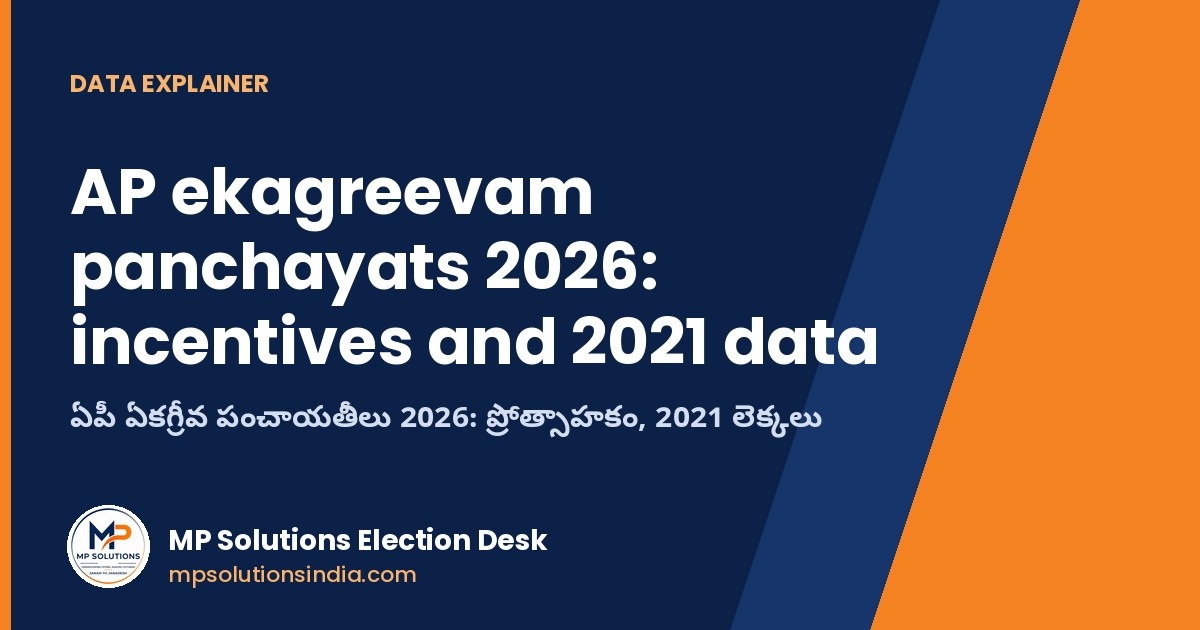
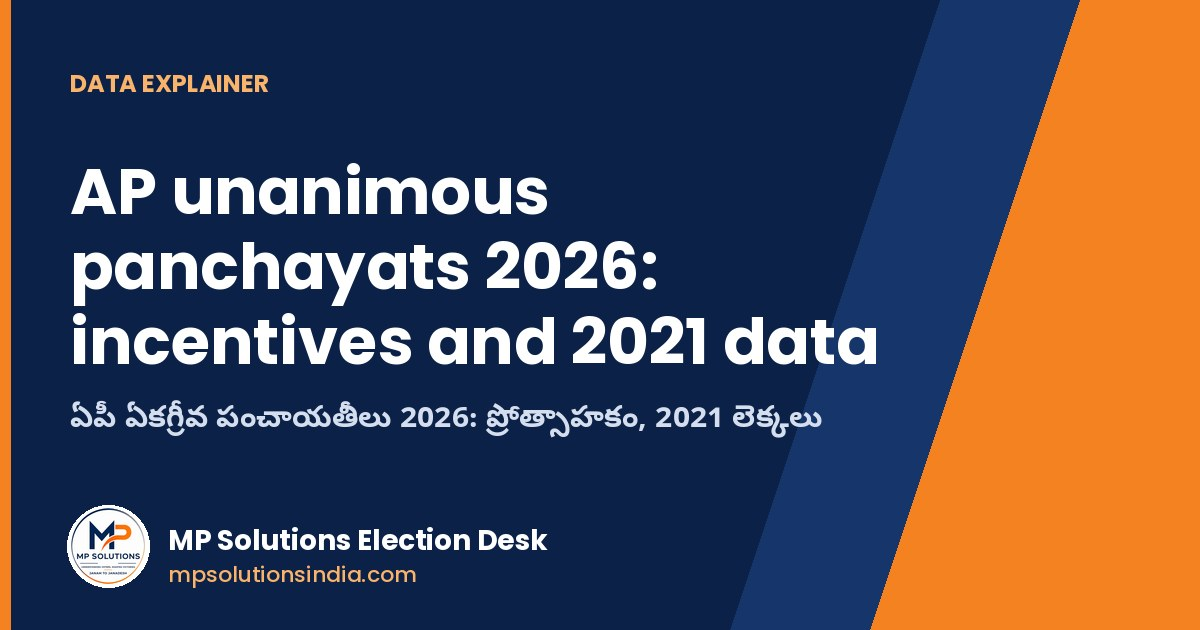
Retitle unanimous panchayats article in plain English
Claude-Session: https://claude.ai/code/session_01J2PUJxykP42pngbhocm33P

Changed region(s): [[0.1542, 0.2413, 0.4933, 0.3921]]

diff --git a/articles/ap-ekagreevam-unanimous-panchayats-2026-incentives-15-25-50-lakh-data.html b/articles/ap-ekagreevam-unanimous-panchayats-2026-incentives-15-25-50-lakh-data.html
@@ -7,25 +7,25 @@
 <script>/* contact-tracking */document.addEventListener('click',function(e){var a=e.target.closest?e.target.closest('a'):null;if(!a||typeof gtag!=='function')return;var h=a.getAttribute('href')||'';var n=h.indexOf('mailto:')===0?'contact_email_click':h.indexOf('instagram.com')>-1?'instagram_click':h.indexOf('/contact.html')>-1?'contact_link_click':'';if(n)gtag('event',n,{page_path:location.pathname})});if(location.pathname.indexOf('/contact')===0&&typeof gtag==='function')gtag('event','contact_page_view',{page_path:location.pathname});</script>
 <meta charset="utf-8">
 <meta name="viewport" content="width=device-width, initial-scale=1">
-<title>AP Ekagreevam Panchayats 2026: Unanimous Election Incentives and 2021 Data | ఏకగ్రీవ పంచాయతీలు</title>
+<title>AP Unanimous Panchayats 2026: Up to Rs 50 Lakh for Unopposed Sarpanch | ఏకగ్రీవ పంచాయతీలు</title>
 <meta name="description" content="Andhra Pradesh offers Rs 15 lakh, Rs 25 lakh or Rs 50 lakh to panchayats that elect the sarpanch and all ward members unopposed. What the rules say, what 2021 looked like, and what the 2026 count could be.">
 <link rel="canonical" href="https://mpsolutionsindia.com/articles/ap-ekagreevam-unanimous-panchayats-2026-incentives-15-25-50-lakh-data.html">
-<meta property="og:title" content="AP Ekagreevam Panchayats 2026: Unanimous Election Incentives and 2021 Data | ఏకగ్రీవ పంచాయతీలు">
+<meta property="og:title" content="AP Unanimous Panchayats 2026: Up to Rs 50 Lakh for Unopposed Sarpanch | ఏకగ్రీవ పంచాయతీలు">
 <meta property="og:description" content="Andhra Pradesh offers Rs 15 lakh, Rs 25 lakh or Rs 50 lakh to panchayats that elect the sarpanch and all ward members unopposed. What the rules say, what 2021 looked like, and what the 2026 count could be.">
 <meta property="og:type" content="website">
 <meta property="og:url" content="https://mpsolutionsindia.com/articles/ap-ekagreevam-unanimous-panchayats-2026-incentives-15-25-50-lakh-data.html">
 <meta property="og:image" content="https://mpsolutionsindia.com/articles/img/og-ap-ekagreevam-unanimous-panchayats-2026-incentives-15-25-50-lakh-data.jpg">
 <meta property="og:site_name" content="MP Solutions">
 <meta name="twitter:card" content="summary_large_image">
-<meta name="keywords" content="ekagreevam panchayat AP 2026, unanimous sarpanch Andhra Pradesh, ekagreevam incentive 50 lakh, ఏకగ్రీవ పంచాయతీ, ఏకగ్రీవ సర్పంచ్ ప్రోత్సాహకం">
+<meta name="keywords" content="unanimous panchayat AP 2026, unopposed sarpanch Andhra Pradesh, unanimous election incentive 50 lakh, ekagreevam, ఏకగ్రీవ పంచాయతీ, ఏకగ్రీవ సర్పంచ్ ప్రోత్సాహకం">
 <meta name="theme-color" content="#0B2147">
 <link rel="icon" href="/mp-logo.png" type="image/png">
 <link rel="apple-touch-icon" href="/mp-logo.png">
 <link rel="preconnect" href="https://fonts.googleapis.com">
 <link rel="preconnect" href="https://fonts.gstatic.com" crossorigin>
 <link href="https://fonts.googleapis.com/css2?family=Archivo:wght@600;700;800&family=Noto+Sans+Telugu:wght@400;600;700&family=Public+Sans:wght@400;500;600&display=swap" rel="stylesheet">
-<script type="application/ld+json">{"@context": "https://schema.org", "@type": "NewsArticle", "headline": "AP ekagreevam panchayats 2026: Rs 15, 25 and 50 lakh incentives and what 2021 data says", "alternativeHeadline": "ఏపీ ఏకగ్రీవ పంచాయతీలు 2026: రూ.15, 25, 50 లక్షల ప్రోత్సాహకం", "description": "Andhra Pradesh offers Rs 15 lakh, Rs 25 lakh or Rs 50 lakh to panchayats that elect the sarpanch and all ward members unopposed. What the rules say, what 2021 looked like, and what the 2026 count could be.", "datePublished": "2026-11-19T06:30:00+05:30", "dateModified": "2026-11-19T06:30:00+05:30", "mainEntityOfPage": "https://mpsolutionsindia.com/articles/ap-ekagreevam-unanimous-panchayats-2026-incentives-15-25-50-lakh-data.html", "url": "https://mpsolutionsindia.com/articles/ap-ekagreevam-unanimous-panchayats-2026-incentives-15-25-50-lakh-data.html", "image": ["https://mpsolutionsindia.com/articles/img/og-ap-ekagreevam-unanimous-panchayats-2026-incentives-15-25-50-lakh-data.jpg"], "inLanguage": ["en-IN", "te"], "author": {"@type": "Organization", "name": "MP Solutions Election Desk", "url": "https://mpsolutionsindia.com/about.html#election-desk"}, "publisher": {"@type": "Organization", "name": "MP Solutions", "logo": {"@type": "ImageObject", "url": "https://mpsolutionsindia.com/mp-logo.png"}}, "about": ["Unanimous panchayat election", "Andhra Pradesh gram panchayat elections 2026"]}</script>
-<script type="application/ld+json">{"@context": "https://schema.org", "@type": "FAQPage", "mainEntity": [{"@type": "Question", "name": "How much incentive does an unanimous (ekagreevam) panchayat get in Andhra Pradesh in 2026?", "acceptedAnswer": {"@type": "Answer", "text": "Rs 15 lakh if the population is up to 5,000, Rs 25 lakh for 5,001 to 10,000, and Rs 50 lakh above 10,000. The earlier scheme ranged from Rs 5 lakh to Rs 20 lakh."}}, {"@type": "Question", "name": "What is the condition for the incentive?", "acceptedAnswer": {"@type": "Answer", "text": "The sarpanch and all ward member posts must be elected unopposed, and election authorities must officially declare the result. The panchayat's eligibility is verified before funds are released."}}, {"@type": "Question", "name": "How many panchayats were unanimous in 2021?", "acceptedAnswer": {"@type": "Answer", "text": "Newsmeter reported 2,197 of 13,097 sarpanches (16.77%) elected unanimously in the four phases in February 2021. The Hans India reported a running total of 2,192 on 17 February 2021, so the final figure is quoted with a small variation."}}, {"@type": "Question", "name": "How many will be unanimous in 2026?", "acceptedAnswer": {"@type": "Answer", "text": "There is no official count yet. State Election Commissioner Anil Chandra Punetha gave a preliminary estimate that 15 to 20 per cent of gram panchayats could be unanimous. Actual numbers will be known only after the withdrawal deadline of each phase."}}, {"@type": "Question", "name": "Does a unanimous sarpanch get the incentive if ward seats are contested?", "acceptedAnswer": {"@type": "Answer", "text": "No. As reported, the incentive is paid only when both the sarpanch and all ward members are elected unopposed."}}, {"@type": "Question", "name": "How is the incentive money used?", "acceptedAnswer": {"@type": "Answer", "text": "For approved village development and public welfare works, following financial and audit procedures. As reported, funds are released in phases during the elected panchayat's term."}}]}</script>
+<script type="application/ld+json">{"@context": "https://schema.org", "@type": "NewsArticle", "headline": "AP unanimous panchayats 2026: up to Rs 50 lakh for unopposed sarpanch and what 2021 data says", "alternativeHeadline": "ఏపీ ఏకగ్రీవ పంచాయతీలు 2026: రూ.15, 25, 50 లక్షల ప్రోత్సాహకం", "description": "Andhra Pradesh offers Rs 15 lakh, Rs 25 lakh or Rs 50 lakh to panchayats that elect the sarpanch and all ward members unopposed. What the rules say, what 2021 looked like, and what the 2026 count could be.", "datePublished": "2026-11-19T06:30:00+05:30", "dateModified": "2026-11-19T06:30:00+05:30", "mainEntityOfPage": "https://mpsolutionsindia.com/articles/ap-ekagreevam-unanimous-panchayats-2026-incentives-15-25-50-lakh-data.html", "url": "https://mpsolutionsindia.com/articles/ap-ekagreevam-unanimous-panchayats-2026-incentives-15-25-50-lakh-data.html", "image": ["https://mpsolutionsindia.com/articles/img/og-ap-ekagreevam-unanimous-panchayats-2026-incentives-15-25-50-lakh-data.jpg"], "inLanguage": ["en-IN", "te"], "author": {"@type": "Organization", "name": "MP Solutions Election Desk", "url": "https://mpsolutionsindia.com/about.html#election-desk"}, "publisher": {"@type": "Organization", "name": "MP Solutions", "logo": {"@type": "ImageObject", "url": "https://mpsolutionsindia.com/mp-logo.png"}}, "about": ["Unanimous panchayat election", "Andhra Pradesh gram panchayat elections 2026"]}</script>
+<script type="application/ld+json">{"@context": "https://schema.org", "@type": "FAQPage", "mainEntity": [{"@type": "Question", "name": "How much incentive does a unanimous (ekagreevam) panchayat get in Andhra Pradesh in 2026?", "acceptedAnswer": {"@type": "Answer", "text": "Rs 15 lakh if the population is up to 5,000, Rs 25 lakh for 5,001 to 10,000, and Rs 50 lakh above 10,000. The earlier scheme ranged from Rs 5 lakh to Rs 20 lakh."}}, {"@type": "Question", "name": "What is the condition for the incentive?", "acceptedAnswer": {"@type": "Answer", "text": "The sarpanch and all ward member posts must be elected unopposed, and election authorities must officially declare the result. The panchayat's eligibility is verified before funds are released."}}, {"@type": "Question", "name": "How many panchayats were unanimous in 2021?", "acceptedAnswer": {"@type": "Answer", "text": "Newsmeter reported 2,197 of 13,097 sarpanches (16.77%) elected unanimously in the four phases in February 2021. The Hans India reported a running total of 2,192 on 17 February 2021, so the final figure is quoted with a small variation."}}, {"@type": "Question", "name": "How many will be unanimous in 2026?", "acceptedAnswer": {"@type": "Answer", "text": "There is no official count yet. State Election Commissioner Anil Chandra Punetha gave a preliminary estimate that 15 to 20 per cent of gram panchayats could be unanimous. Actual numbers will be known only after the withdrawal deadline of each phase."}}, {"@type": "Question", "name": "Does a unanimous sarpanch get the incentive if ward seats are contested?", "acceptedAnswer": {"@type": "Answer", "text": "No. As reported, the incentive is paid only when both the sarpanch and all ward members are elected unopposed."}}, {"@type": "Question", "name": "How is the incentive money used?", "acceptedAnswer": {"@type": "Answer", "text": "For approved village development and public welfare works, following financial and audit procedures. As reported, funds are released in phases during the elected panchayat's term."}}]}</script>
 <style>
 .byline{color:#5B667A;font-size:.92rem;margin-bottom:6px}.crumbs{font-size:.88rem;margin-bottom:18px}.crumbs a{color:#5B667A}
 .keybox{display:grid;grid-template-columns:repeat(auto-fit,minmax(150px,1fr));gap:12px;margin:22px 0}
@@ -39,7 +39,7 @@
 .tbl td:last-child{text-align:left}.tbl tbody tr:nth-child(even){background:#F7F9FC}
 .sources li{font-size:.92rem}.cta{background:#0B2147;color:#fff;border-radius:10px;padding:20px;margin:30px 0}.cta a{color:#F9B36B;font-weight:600}
 </style><style>.party{display:inline-block;width:10px;height:10px;border-radius:2px;margin-right:6px;vertical-align:middle}.facts li{margin-bottom:8px}</style>
-<script type="application/ld+json">{"@context": "https://schema.org", "@type": "BreadcrumbList", "itemListElement": [{"@type": "ListItem", "position": 1, "name": "Home", "item": "https://mpsolutionsindia.com/"}, {"@type": "ListItem", "position": 2, "name": "Articles", "item": "https://mpsolutionsindia.com/articles/"}, {"@type": "ListItem", "position": 3, "name": "AP ekagreevam panchayats 2026", "item": "https://mpsolutionsindia.com/articles/ap-ekagreevam-unanimous-panchayats-2026-incentives-15-25-50-lakh-data.html"}]}</script>
+<script type="application/ld+json">{"@context": "https://schema.org", "@type": "BreadcrumbList", "itemListElement": [{"@type": "ListItem", "position": 1, "name": "Home", "item": "https://mpsolutionsindia.com/"}, {"@type": "ListItem", "position": 2, "name": "Articles", "item": "https://mpsolutionsindia.com/articles/"}, {"@type": "ListItem", "position": 3, "name": "AP unanimous panchayats 2026", "item": "https://mpsolutionsindia.com/articles/ap-ekagreevam-unanimous-panchayats-2026-incentives-15-25-50-lakh-data.html"}]}</script>
 <style>
 :root{--navy:#0B2147;--navy-deep:#071634;--orange:#F58220;--paper:#fff;--mist:#F3F5F9;--line:#DCE1EA;--ink:#1A2233;--slate:#5B667A;
 --display:"Archivo","Arial Narrow",Arial,sans-serif;--body:"Public Sans","Segoe UI",Arial,sans-serif}
@@ -86,7 +86,7 @@ footer .row{display:flex;flex-wrap:wrap;justify-content:space-between;gap:8px}
 <nav class="nav" id="nav" aria-label="Main navigation">
 <a href="/">Home</a><a href="/#services">Services</a><a href="/about.html">About</a><a href="/#live-results">Election results</a><a href="/articles/">Articles</a><a href="/contact.html">Contact</a>
 </nav></div></header>
-<div class="page-head"><div class="wrap"><h1 class="lang-block" data-lang="en">AP ekagreevam panchayats 2026: incentives and 2021 data</h1><h1 class="lang-block h-te" data-lang="te" lang="te" hidden>ఏపీ ఏకగ్రీవ పంచాయతీలు 2026: ప్రోత్సాహకం, 2021 లెక్కలు</h1><p class="lang-block" data-lang="en">What unopposed villages get, how 2021 compared, and what the 2026 count could be.</p><p class="lang-block h-te" data-lang="te" lang="te" hidden>ఏకగ్రీవ గ్రామాలకు ఏం వస్తుంది, 2021 ఎలా ఉంది, 2026 లెక్క ఎంత ఉండొచ్చు.</p></div></div>
+<div class="page-head"><div class="wrap"><h1 class="lang-block" data-lang="en">AP unanimous panchayats 2026: incentives and 2021 data</h1><h1 class="lang-block h-te" data-lang="te" lang="te" hidden>ఏపీ ఏకగ్రీవ పంచాయతీలు 2026: ప్రోత్సాహకం, 2021 లెక్కలు</h1><p class="lang-block" data-lang="en">What unopposed villages get, how 2021 compared, and what the 2026 count could be.</p><p class="lang-block h-te" data-lang="te" lang="te" hidden>ఏకగ్రీవ గ్రామాలకు ఏం వస్తుంది, 2021 ఎలా ఉంది, 2026 లెక్క ఎంత ఉండొచ్చు.</p></div></div>
 <main class="article"><div class="wrap">
 
 <div class="langbar" role="group" aria-label="Language / భాష">
@@ -96,7 +96,7 @@ footer .row{display:flex;flex-wrap:wrap;justify-content:space-between;gap:8px}
 
 <!-- ================= ENGLISH ================= -->
 <article class="lang-block" data-lang="en" lang="en-IN">
-<p class="crumbs"><a href="/">Home</a> › <a href="/articles/">Articles</a> › Ekagreevam panchayats</p>
+<p class="crumbs"><a href="/">Home</a> › <a href="/articles/">Articles</a> › Unanimous panchayats</p>
 <p class="byline">By <a href="/about.html#election-desk"><strong>MP Solutions Election Desk</strong></a> · Published 19 November 2026 · Data explainer</p>
 <div style="background:#FFF7ED;border:1px solid #F5C08A;border-left:5px solid #F58220;border-radius:8px;padding:14px 16px;margin:18px 0"><b>No official 2026 count yet</b><br>Nominations and withdrawals are still in progress across the three phases, so no district-wise count of unanimous panchayats exists. This page gives the rules, the sourced 2021 benchmark and a clearly labelled estimate. We will update it when counts are published.</div>
 <p>In many Andhra Pradesh villages the best election is the one that is not held. If every candidate except one withdraws, the sarpanch is declared elected <strong>unopposed (ekagreevam)</strong>. For 2026 the state has raised the cash reward for such villages, which is why the word is trending before the 26 November, 29 November and 2 December polls.</p>
@@ -139,7 +139,7 @@ footer .row{display:flex;flex-wrap:wrap;justify-content:space-between;gap:8px}
 <h2>What it means</h2>
 <p>A larger reward raises the pull towards consensus, especially in villages above 10,000 people. A unanimous result is lawful when no one else contests, but every voter keeps the right to nominate and to withdraw freely. Pressure to withdraw is a matter for the Returning Officer and the police. For the voting process see our <a href="/articles/ap-panchayat-election-2026-polling-day-guide-how-to-vote.html">polling day guide</a>, and for seat totals our <a href="/articles/ap-panchayat-elections-2026-by-the-numbers-voters-seats-polling-stations.html">by-the-numbers article</a>. Winners will appear on the <a href="/articles/ap-panchayat-election-results-2026-sarpanch-winners-phase-wise.html">results tracker</a>.</p>
 <h2>Frequently asked questions</h2>
-<p><strong>How much incentive does an unanimous (ekagreevam) panchayat get in Andhra Pradesh in 2026?</strong><br>Rs 15 lakh if the population is up to 5,000, Rs 25 lakh for 5,001 to 10,000, and Rs 50 lakh above 10,000. The earlier scheme ranged from Rs 5 lakh to Rs 20 lakh.</p>
+<p><strong>How much incentive does a unanimous (ekagreevam) panchayat get in Andhra Pradesh in 2026?</strong><br>Rs 15 lakh if the population is up to 5,000, Rs 25 lakh for 5,001 to 10,000, and Rs 50 lakh above 10,000. The earlier scheme ranged from Rs 5 lakh to Rs 20 lakh.</p>
 <p><strong>What is the condition for the incentive?</strong><br>The sarpanch and all ward member posts must be elected unopposed, and election authorities must officially declare the result. The panchayat's eligibility is verified before funds are released.</p>
 <p><strong>How many panchayats were unanimous in 2021?</strong><br>Newsmeter reported 2,197 of 13,097 sarpanches (16.77%) elected unanimously in the four phases in February 2021. The Hans India reported a running total of 2,192 on 17 February 2021, so the final figure is quoted with a small variation.</p>
 <p><strong>How many will be unanimous in 2026?</strong><br>There is no official count yet. State Election Commissioner Anil Chandra Punetha gave a preliminary estimate that 15 to 20 per cent of gram panchayats could be unanimous. Actual numbers will be known only after the withdrawal deadline of each phase.</p>

diff --git a/articles/index.html b/articles/index.html
@@ -74,7 +74,7 @@ footer .row{display:flex;flex-wrap:wrap;justify-content:space-between;gap:8px}
 <div class="page-head"><div class="wrap"><h1>Articles</h1><p>Election analysis and Andhra Pradesh current affairs.</p></div></div>
 <main class="article"><div class="wrap">
 <div class="afilter"><input type="search" id="asearch" placeholder="Search articles / వెతకండి" aria-label="Search articles"><div class="chips" role="group" aria-label="Filter by topic"><button type="button" class="chip on" data-c="all">All</button><button type="button" class="chip" data-c="panchayat">Panchayat 2026</button><button type="button" class="chip" data-c="ap">AP politics</button><button type="button" class="chip" data-c="national">National</button><button type="button" class="chip" data-c="explainer">Explainers</button></div><p id="anone" hidden>No articles found. / ఆర్టికల్స్ దొరకలేదు.</p></div>
-<p>Analysis, explainers and election data on Andhra Pradesh politics, governance and current affairs, written and fact-checked by the MP Solutions team.</p><div class="card"><p class="meta" style="margin:0 0 6px">19 November 2026 · Data explainer</p><h3 style="margin-top:0"><a href="/articles/ap-ekagreevam-unanimous-panchayats-2026-incentives-15-25-50-lakh-data.html">AP ekagreevam panchayats 2026: incentives of Rs 15, 25 and 50 lakh and what 2021 data says</a></h3><p style="margin:0">What unopposed villages get, how 2021 compared and what the 2026 count could be. Read in English or తెలుగు.</p></div><div class="card"><p class="meta" style="margin:0 0 6px">18 November 2026 · Explainer</p><h3 style="margin-top:0"><a href="/articles/ap-mpp-zp-chairperson-elections-19-20-november-2026-how-they-work.html">AP MPP and ZP chairperson elections on 19 and 20 November: how the indirect polls work</a></h3><p style="margin:0">Who votes, how co-option works, the whip rules and the schedule for 659 mandal and 28 zilla parishads. Read in English or తెలుగు.</p></div><div class="card"><p class="meta" style="margin:0 0 6px">Results tracker · from 26 November 2026</p><h3 style="margin-top:0"><a href="/articles/ap-panchayat-election-results-2026-sarpanch-winners-phase-wise.html">AP panchayat election results 2026: phase-wise sarpanch results</a></h3><p style="margin:0">Phase-wise results for 26 Nov, 29 Nov and 2 Dec, updated from official figures, with how results are declared. Read in English or తెలుగు.</p></div><div class="card"><p class="meta" style="margin:0 0 6px">18 November 2026 · Data</p><h3 style="margin-top:0"><a href="/articles/ap-panchayat-elections-2026-by-the-numbers-voters-seats-polling-stations.html">AP panchayat elections 2026 by the numbers: voters, seats and polling stations</a></h3><p style="margin:0">2.61 crore voters, 13,167 sarpanch and 1,32,514 ward seats, 1,34,847 polling stations, women and BC reservation, spending limits and phase-wise data. Read in English or తెలుగు.</p></div><div class="card"><p class="meta" style="margin:0 0 6px">18 November 2026 · Explainer</p><h3 style="margin-top:0"><a href="/articles/ap-panchayat-election-2026-polling-day-guide-how-to-vote.html">AP panchayat election 2026 polling day guide: dates, timings and how to vote</a></h3><p style="margin:0">Phase-wise polling dates, 7 am to 1 pm timings, how to check your name, what to carry, the pink and white ballots, NOTA and same-day counting. Read in English or తెలుగు.</p></div><div class="card"><p class="meta" style="margin:0 0 6px">17 November 2026 · Explainer</p><h3 style="margin-top:0"><a href="/articles/ap-sarpanch-election-symbols-2026-list-allotment.html">AP sarpanch election symbols 2026: full list and how they are allotted</a></h3><p style="margin:0">All 25 sarpanch and 20 ward member symbols, the alphabetical-order rule, ballot paper colours and when candidates get their symbol. Read in English or తెలుగు.</p></div><div class="card"><p class="meta" style="margin:0 0 6px">16 November 2026 · Election analysis</p><h3 style="margin-top:0"><a href="/articles/ap-local-body-results-2026-what-the-numbers-say.html">AP local body results 2026: what the numbers say and what comes next</a></h3><p style="margin:0">ZPTC and urban local body results, the figures two sources confirm, what we could not confirm, and the 30 November electoral roll date. Read in English or తెలుగు.</p></div><div class="card"><p class="meta" style="margin:0 0 6px">15 November 2026 · Explainer</p><h3 style="margin-top:0"><a href="/articles/ap-governments-since-1983-who-rules-andhra-pradesh.html">Who rules Andhra Pradesh? Every government since 1983</a></h3><p>Ten elections, three parties in power, and what the 2024 result means, with charts and photos.</p></div><div class="card"><p class="meta" style="margin:0 0 6px">14 November 2026 · Election analysis</p><h3 style="margin-top:0"><a href="/articles/up-election-2027-yogi-vs-akhilesh-80-vs-20-analysis.html">UP Election 2027: Yogi vs Akhilesh and the "80 vs 20" battle</a></h3><p style="margin:0">2022 and 2024 results, the latest 267 vs 132 survey and the BSP swing vote. Read in English or తెలుగు.</p></div><div class="card"><p class="meta" style="margin:0 0 6px">14 November 2026 · Explainer</p><h3 style="margin-top:0"><a href="/articles/ap-sarpanch-nomination-2026-documents-eligibility-deposit.html">AP sarpanch nomination 2026: documents, eligibility and process</a></h3><p style="margin:0">Form-III, documents checklist, ₹3,000 deposit, phase dates and step-by-step filing guide. Read in English or తెలుగు.</p></div><div class="card"><p class="meta" style="margin:0 0 6px">14 November 2026 · Political analysis</p><h3 style="margin-top:0"><a href="/articles/vijayasai-reddy-new-party-prp-parivartan-rajniti-party.html">Vijayasai Reddy's new party PRP: whose votes will it split?</a></h3><p style="margin:0">Launch, flag, agenda and a vote-split analysis of the Parivartan Rajniti Party. Read in English or తెలుగు.</p></div><div class="card"><p class="meta" style="margin:0 0 6px">13 November 2026 · Constituency profile</p><h3 style="margin-top:0"><a href="/articles/markapuram-assembly-constituency-election-results.html">Markapuram constituency: every result, 1989–2024</a></h3><p style="margin:0">Winners, margins and the three families who have shaped Assembly Constituency No. 111.</p></div><div class="card"><p class="meta" style="margin:0 0 6px">13 November 2026 · Explainer</p><h3 style="margin-top:0"><a href="/articles/andhra-pradesh-assembly-election-history-1983-2024.html">Andhra Pradesh election history, 1983–2024</a></h3><p style="margin:0">Every Assembly verdict and Chief Minister from NTR's 1983 wave to the NDA's 164 seats in 2024.</p></div><div class="card"><p class="meta" style="margin:0 0 6px">13 November 2026 · Election results</p><h3 style="margin-top:0"><a href="/articles/ap-municipal-elections-2026-results.html">AP Municipal Elections 2026: TDP wins two-thirds of all wards</a></h3><p style="margin:0">Party-wise results for all 100 urban local bodies, the 13 corporation mayors, and what the verdict shows.</p></div>
+<p>Analysis, explainers and election data on Andhra Pradesh politics, governance and current affairs, written and fact-checked by the MP Solutions team.</p><div class="card"><p class="meta" style="margin:0 0 6px">19 November 2026 · Data explainer</p><h3 style="margin-top:0"><a href="/articles/ap-ekagreevam-unanimous-panchayats-2026-incentives-15-25-50-lakh-data.html">AP unanimous panchayats 2026: up to Rs 50 lakh for unopposed sarpanch and what 2021 data says</a></h3><p style="margin:0">What unopposed villages get, how 2021 compared and what the 2026 count could be. Read in English or తెలుగు.</p></div><div class="card"><p class="meta" style="margin:0 0 6px">18 November 2026 · Explainer</p><h3 style="margin-top:0"><a href="/articles/ap-mpp-zp-chairperson-elections-19-20-november-2026-how-they-work.html">AP MPP and ZP chairperson elections on 19 and 20 November: how the indirect polls work</a></h3><p style="margin:0">Who votes, how co-option works, the whip rules and the schedule for 659 mandal and 28 zilla parishads. Read in English or తెలుగు.</p></div><div class="card"><p class="meta" style="margin:0 0 6px">Results tracker · from 26 November 2026</p><h3 style="margin-top:0"><a href="/articles/ap-panchayat-election-results-2026-sarpanch-winners-phase-wise.html">AP panchayat election results 2026: phase-wise sarpanch results</a></h3><p style="margin:0">Phase-wise results for 26 Nov, 29 Nov and 2 Dec, updated from official figures, with how results are declared. Read in English or తెలుగు.</p></div><div class="card"><p class="meta" style="margin:0 0 6px">18 November 2026 · Data</p><h3 style="margin-top:0"><a href="/articles/ap-panchayat-elections-2026-by-the-numbers-voters-seats-polling-stations.html">AP panchayat elections 2026 by the numbers: voters, seats and polling stations</a></h3><p style="margin:0">2.61 crore voters, 13,167 sarpanch and 1,32,514 ward seats, 1,34,847 polling stations, women and BC reservation, spending limits and phase-wise data. Read in English or తెలుగు.</p></div><div class="card"><p class="meta" style="margin:0 0 6px">18 November 2026 · Explainer</p><h3 style="margin-top:0"><a href="/articles/ap-panchayat-election-2026-polling-day-guide-how-to-vote.html">AP panchayat election 2026 polling day guide: dates, timings and how to vote</a></h3><p style="margin:0">Phase-wise polling dates, 7 am to 1 pm timings, how to check your name, what to carry, the pink and white ballots, NOTA and same-day counting. Read in English or తెలుగు.</p></div><div class="card"><p class="meta" style="margin:0 0 6px">17 November 2026 · Explainer</p><h3 style="margin-top:0"><a href="/articles/ap-sarpanch-election-symbols-2026-list-allotment.html">AP sarpanch election symbols 2026: full list and how they are allotted</a></h3><p style="margin:0">All 25 sarpanch and 20 ward member symbols, the alphabetical-order rule, ballot paper colours and when candidates get their symbol. Read in English or తెలుగు.</p></div><div class="card"><p class="meta" style="margin:0 0 6px">16 November 2026 · Election analysis</p><h3 style="margin-top:0"><a href="/articles/ap-local-body-results-2026-what-the-numbers-say.html">AP local body results 2026: what the numbers say and what comes next</a></h3><p style="margin:0">ZPTC and urban local body results, the figures two sources confirm, what we could not confirm, and the 30 November electoral roll date. Read in English or తెలుగు.</p></div><div class="card"><p class="meta" style="margin:0 0 6px">15 November 2026 · Explainer</p><h3 style="margin-top:0"><a href="/articles/ap-governments-since-1983-who-rules-andhra-pradesh.html">Who rules Andhra Pradesh? Every government since 1983</a></h3><p>Ten elections, three parties in power, and what the 2024 result means, with charts and photos.</p></div><div class="card"><p class="meta" style="margin:0 0 6px">14 November 2026 · Election analysis</p><h3 style="margin-top:0"><a href="/articles/up-election-2027-yogi-vs-akhilesh-80-vs-20-analysis.html">UP Election 2027: Yogi vs Akhilesh and the "80 vs 20" battle</a></h3><p style="margin:0">2022 and 2024 results, the latest 267 vs 132 survey and the BSP swing vote. Read in English or తెలుగు.</p></div><div class="card"><p class="meta" style="margin:0 0 6px">14 November 2026 · Explainer</p><h3 style="margin-top:0"><a href="/articles/ap-sarpanch-nomination-2026-documents-eligibility-deposit.html">AP sarpanch nomination 2026: documents, eligibility and process</a></h3><p style="margin:0">Form-III, documents checklist, ₹3,000 deposit, phase dates and step-by-step filing guide. Read in English or తెలుగు.</p></div><div class="card"><p class="meta" style="margin:0 0 6px">14 November 2026 · Political analysis</p><h3 style="margin-top:0"><a href="/articles/vijayasai-reddy-new-party-prp-parivartan-rajniti-party.html">Vijayasai Reddy's new party PRP: whose votes will it split?</a></h3><p style="margin:0">Launch, flag, agenda and a vote-split analysis of the Parivartan Rajniti Party. Read in English or తెలుగు.</p></div><div class="card"><p class="meta" style="margin:0 0 6px">13 November 2026 · Constituency profile</p><h3 style="margin-top:0"><a href="/articles/markapuram-assembly-constituency-election-results.html">Markapuram constituency: every result, 1989–2024</a></h3><p style="margin:0">Winners, margins and the three families who have shaped Assembly Constituency No. 111.</p></div><div class="card"><p class="meta" style="margin:0 0 6px">13 November 2026 · Explainer</p><h3 style="margin-top:0"><a href="/articles/andhra-pradesh-assembly-election-history-1983-2024.html">Andhra Pradesh election history, 1983–2024</a></h3><p style="margin:0">Every Assembly verdict and Chief Minister from NTR's 1983 wave to the NDA's 164 seats in 2024.</p></div><div class="card"><p class="meta" style="margin:0 0 6px">13 November 2026 · Election results</p><h3 style="margin-top:0"><a href="/articles/ap-municipal-elections-2026-results.html">AP Municipal Elections 2026: TDP wins two-thirds of all wards</a></h3><p style="margin:0">Party-wise results for all 100 urban local bodies, the 13 corporation mayors, and what the verdict shows.</p></div>
 </div></main>
 <footer><div class="wrap">
 <nav aria-label="Footer"><a href="/articles/">Articles</a><a href="/research-services.html">Research &amp; data services</a><a href="/about.html">About us</a><a href="/contact.html">Contact</a><a href="/editorial-policy.html">Editorial policy</a><a href="/privacy-policy.html">Privacy policy</a><a href="/disclaimer.html">Disclaimer</a><a href="/terms.html">Terms &amp; conditions</a><a href="/sitemap.xml">Sitemap</a></nav>

diff --git a/articles/ap-panchayat-election-results-2026-sarpanch-winners-phase-wise.html b/articles/ap-panchayat-election-results-2026-sarpanch-winners-phase-wise.html
@@ -195,7 +195,7 @@ footer .row{display:flex;flex-wrap:wrap;justify-content:space-between;gap:8px}
 <section class="related" aria-label="Related articles">
 <h2>Related reading / సంబంధిత కథనాలు</h2>
 <ul>
-<li><a href="/articles/ap-ekagreevam-unanimous-panchayats-2026-incentives-15-25-50-lakh-data.html">AP ekagreevam panchayats 2026: incentives and 2021 data</a></li>
+<li><a href="/articles/ap-ekagreevam-unanimous-panchayats-2026-incentives-15-25-50-lakh-data.html">AP unanimous panchayats 2026: incentives and 2021 data</a></li>
 <li><a href="/articles/ap-mpp-zp-chairperson-elections-19-20-november-2026-how-they-work.html">AP MPP and ZP chairperson elections on 19 and 20 November: how they work</a></li>
 <li><a href="/articles/ap-panchayat-elections-2026-by-the-numbers-voters-seats-polling-stations.html">AP panchayat elections 2026 by the numbers: voters, seats, polling stations</a></li>
 <li><a href="/articles/ap-panchayat-election-2026-polling-day-guide-how-to-vote.html">AP panchayat election 2026 polling day guide: dates, timings and how to vote</a></li>

diff --git a/index.html b/index.html
@@ -330,8 +330,8 @@ if(!t)t="All phases polled · see results";el.textContent=t})();</script>
     <div class="wrap">
       <h2>Latest analysis</h2>
       <a class="latest-card" href="/articles/ap-ekagreevam-unanimous-panchayats-2026-incentives-15-25-50-lakh-data.html">
-        <span class="latest-tag">Data · Ekagreevam</span>
-        <b>AP ekagreevam panchayats 2026: Rs 15, 25, 50 lakh incentives and 2021 data</b>
+        <span class="latest-tag">Data · Unanimous polls</span>
+        <b>AP unanimous panchayats 2026: up to Rs 50 lakh for unopposed sarpanch</b>
         <span>What unopposed villages get, the 2021 benchmark of 16.77% and a labelled estimate for 2026. Read in English or తెలుగు.</span>
       </a>
       <a class="latest-card" href="/articles/ap-mpp-zp-chairperson-elections-19-20-november-2026-how-they-work.html">
